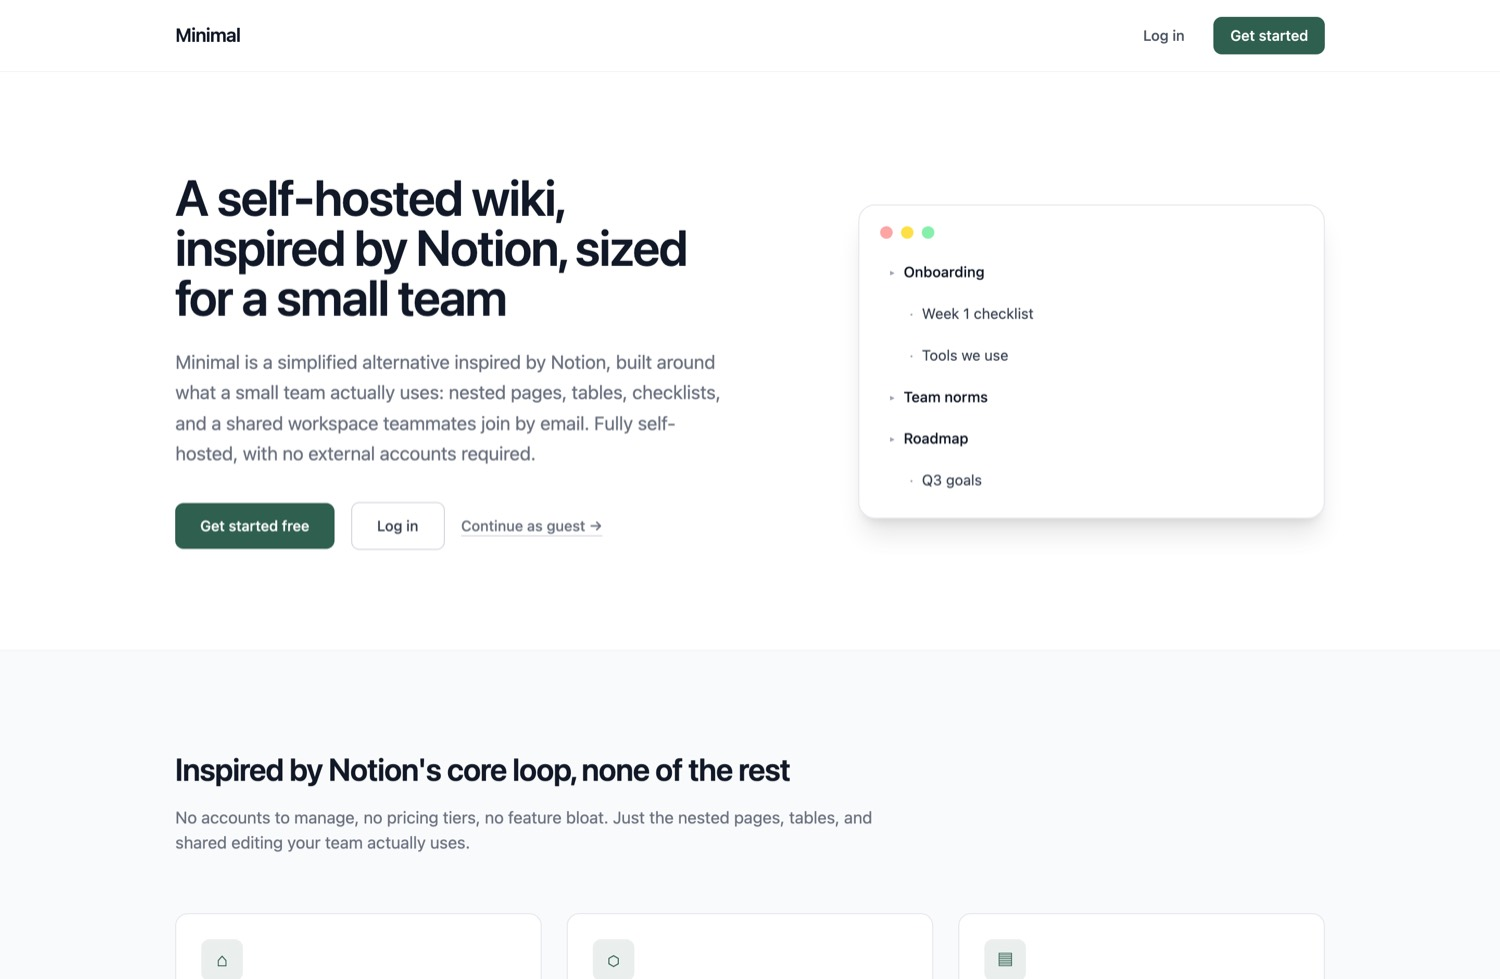
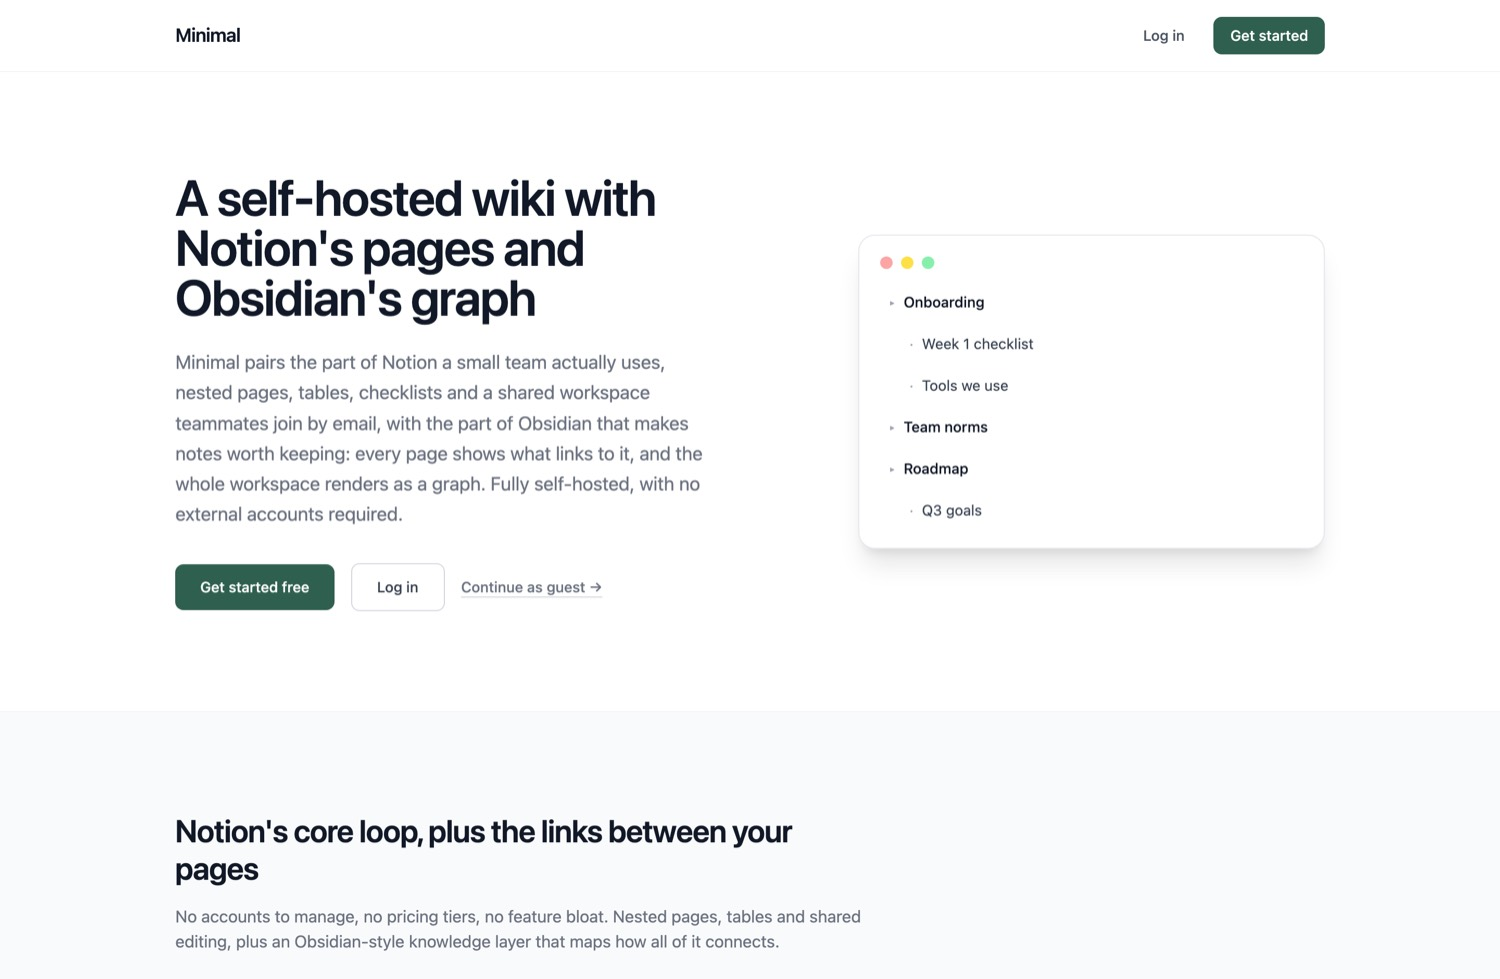
Landing page: lead with both halves, Notion's pages and Obsidian's graph
The landing page described Minimal as a Notion-inspired wiki and never mentioned
Obsidian, backlinks, or the graph at all. The single most distinctive thing the
product does was invisible to anyone who had not already cloned it, while the
README's own first line is "Notion meets Obsidian".

Rewrites the hero headline and paragraph, the features section heading and
paragraph, the footer tagline, and the page title to carry both halves. Still
says "inspired by" and "Obsidian-style" rather than claiming to be either tool,
which was the deliberate correction made in the earlier copy pass.

Also refreshes docs/images/landing.jpg and its caption in the build record, so
the documented screenshot matches what the app now shows.

diff --git a/client/src/marketing/LandingPage.jsx b/client/src/marketing/LandingPage.jsx
@@ -89,13 +89,14 @@ export default function LandingPage() {
         <div className="grid items-center gap-12 md:grid-cols-2">
           <div>
             <h1 className="text-4xl font-semibold leading-tight tracking-tight text-gray-900 sm:text-5xl">
-A self-hosted wiki, inspired by Notion, sized for a small team
+A self-hosted wiki with Notion's pages and Obsidian's graph
             </h1>
             <p className="mt-6 text-lg leading-relaxed text-gray-500">
-              Minimal is a simplified alternative inspired by Notion, built around what a
-              small team actually uses: nested pages, tables, checklists, and a shared
-              workspace teammates join by email. Fully self-hosted, with no external accounts
-              required.
+              Minimal pairs the part of Notion a small team actually uses, nested pages,
+              tables, checklists and a shared workspace teammates join by email, with the
+              part of Obsidian that makes notes worth keeping: every page shows what links
+              to it, and the whole workspace renders as a graph. Fully self-hosted, with no
+              external accounts required.
             </p>
             <div className="mt-8 flex flex-wrap items-center gap-4">
               <Link
@@ -132,11 +133,12 @@ A self-hosted wiki, inspired by Notion, sized for a small team
         <div className="mx-auto max-w-6xl px-6">
           <div className="mb-14 max-w-2xl">
             <h2 className="text-3xl font-semibold tracking-tight text-gray-900">
-Inspired by Notion's core loop, none of the rest
+Notion's core loop, plus the links between your pages
             </h2>
             <p className="mt-4 text-base text-gray-500">
-              No accounts to manage, no pricing tiers, no feature bloat. Just the nested
-              pages, tables, and shared editing your team actually uses.
+              No accounts to manage, no pricing tiers, no feature bloat. Nested pages,
+              tables and shared editing, plus an Obsidian-style knowledge layer that maps
+              how all of it connects.
             </p>
           </div>
           <div className="grid gap-6 sm:grid-cols-2 lg:grid-cols-3">
@@ -227,7 +229,7 @@ Inspired by Notion's core loop, none of the rest
           <div className="grid gap-10 sm:grid-cols-4">
             <div>
               <span className="text-lg font-semibold tracking-tight text-gray-900">Minimal</span>
-              <p className="mt-3 text-sm text-gray-500">A self-hosted wiki, inspired by Notion.</p>
+              <p className="mt-3 text-sm text-gray-500">A self-hosted wiki. Notion's pages, Obsidian's graph.</p>
             </div>
             <div>
               <h4 className="mb-3 text-sm font-semibold text-gray-900">Product</h4>

diff --git a/docs/build-record.html b/docs/build-record.html
@@ -138,7 +138,7 @@ footer{margin-top:60px;padding-top:22px;border-top:1px solid var(--hair);
 <p>Everything below is the seeded demo workspace on a clean clone, captured while running. No mockups.</p>
 
 <figure><img src="images/landing.jpg" alt="Minimal landing page">
-<figcaption><b>The landing page.</b> Positioned as inspired by Notion rather than as Notion, a correction made deliberately during the copy pass. "Continue as guest" leads to a read-only tour with no account.</figcaption></figure>
+<figcaption><b>The landing page.</b> Leads with both halves of the product rather than the Notion half alone, and says "inspired by" rather than claiming to be either tool. "Continue as guest" leads to a read-only tour with no account.</figcaption></figure>
 
 <figure><img src="images/dashboard.jpg" alt="The workspace dashboard grouped into named sections">
 <figcaption><b>The dashboard.</b> Root pages grouped into named, collapsible, drag-and-drop sections, each page carrying a deterministic color. Sixteen pages across four sections in the seed.</figcaption></figure>

diff --git a/client/index.html b/client/index.html
@@ -3,7 +3,7 @@
   <head>
     <meta charset="UTF-8" />
     <meta name="viewport" content="width=device-width, initial-scale=1.0" />
-    <title>Minimal — a shared wiki for your team</title>
+    <title>Minimal — Notion's pages, Obsidian's graph, self-hosted</title>
   </head>
   <body>
     <div id="root"></div>
